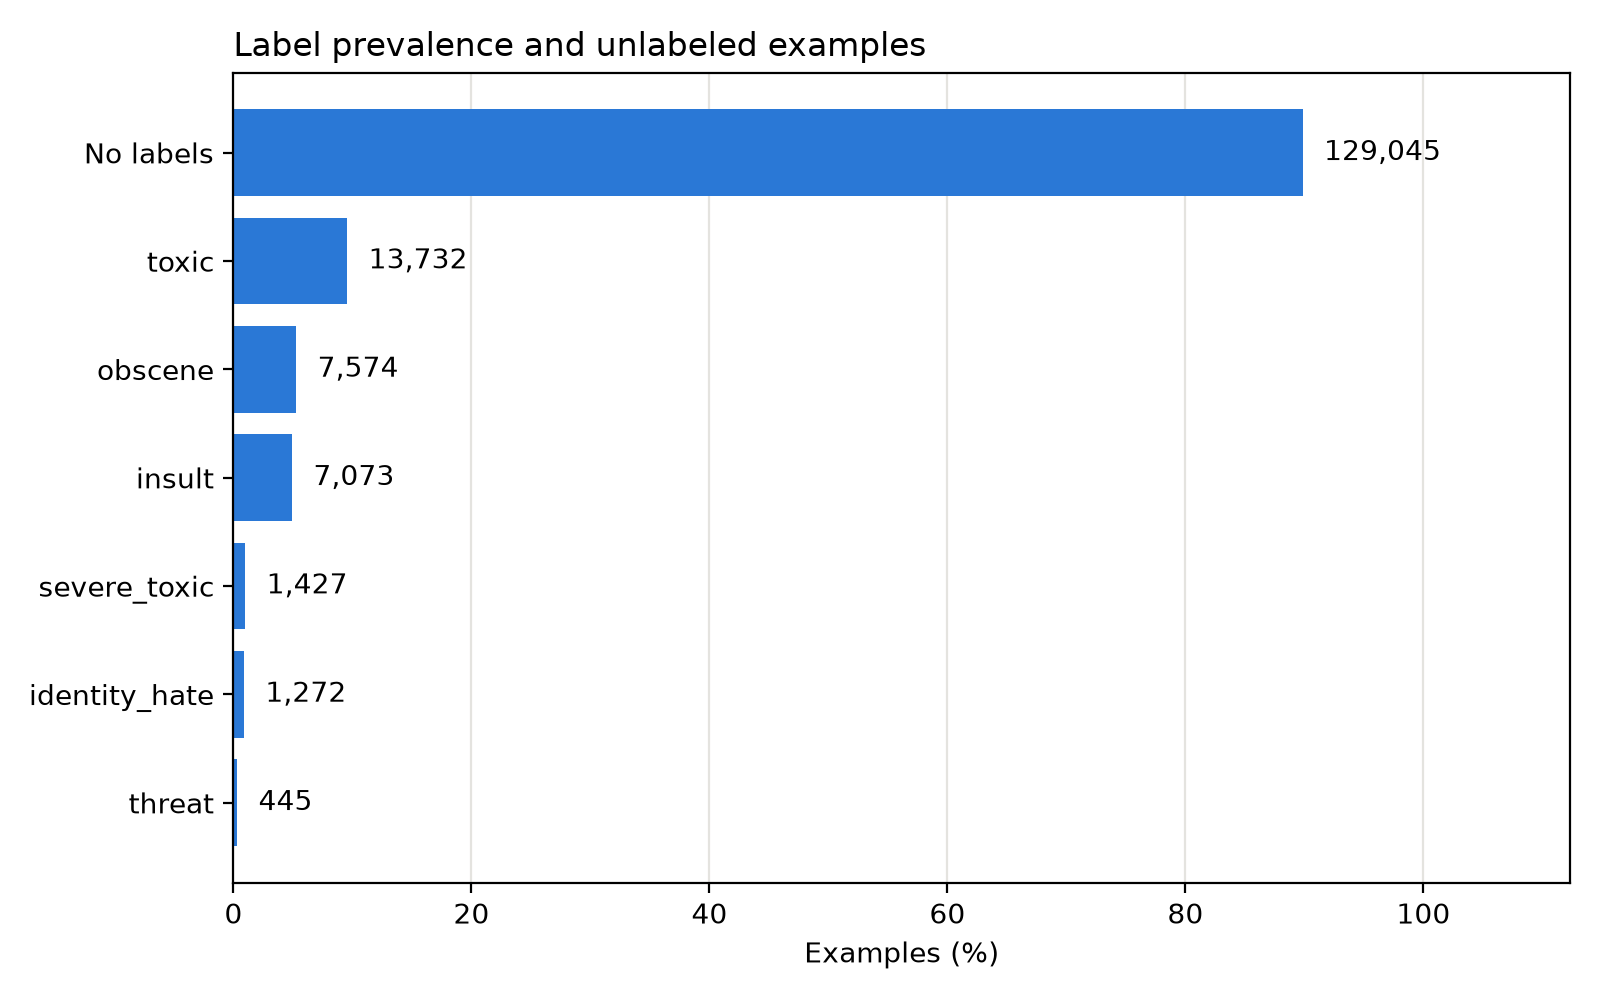
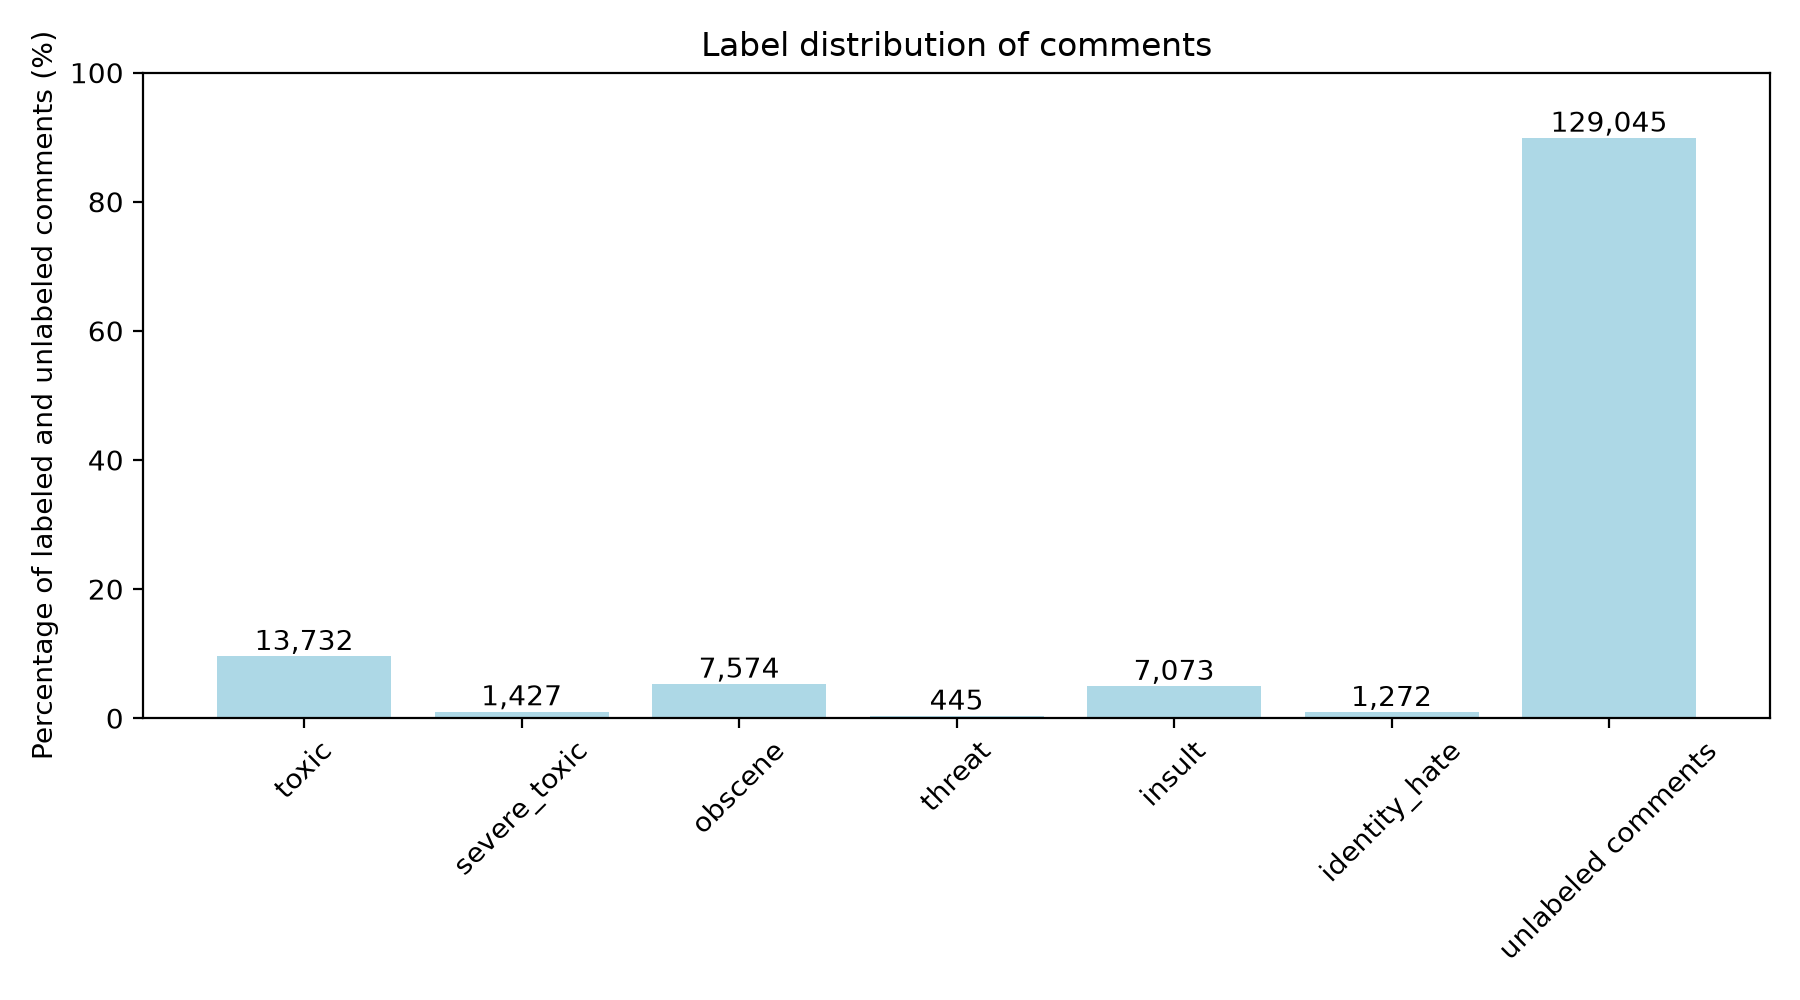
label distribution script

diff --git a/analyze_label_distribution.py b/analyze_label_distribution.py
@@ -21,18 +21,19 @@ LABELS = (
 
 
 def main():
+    # set arguments
     parser = argparse.ArgumentParser()
     parser.add_argument("--train", type=Path, required=True)
     parser.add_argument("--out", type=Path, default=Path("data_analysis"))
     parser.add_argument("--seed", type=int, default=42)
     args = parser.parse_args()
 
-    # take labels from training set
+    # open training dataset and take each label for each row and turn into integers
     with args.train.open(encoding="utf-8", newline="") as data_file:
-        examples = [
-            [int(row[label]) for label in LABELS]
-            for row in csv.DictReader(data_file)
-        ]
+        examples = []
+        for row in csv.DictReader(data_file):
+            label_values = [int(row[label]) for label in LABELS]
+            examples.append(label_values)
 
     # take 90% of dataset (the training part)
     train_indices, _ = data_splits.jigsaw_train_validation_indices(
@@ -41,39 +42,49 @@ def main():
 
     # compute label prevalence in the training subset
     train_size = len(train_indices)
-    counts = [
-        sum(examples[index][label_index] for index in train_indices)
-        for label_index in range(len(LABELS))
-    ]
-    prevalence = [count / train_size * 100 for count in counts]
+    counts = []
+    for label_index in range(len(LABELS)):
+        count = 0
+        for index in train_indices:
+            count += examples[index][label_index]
+        counts.append(count)
+
+    prevalence = []
+    for count in counts:
+        prevalence.append(count / train_size * 100)
 
     # compute prevalence of unlabeled examples in the training subset
-    unlabeled_count = sum(
-        not any(examples[index]) for index in train_indices
-    )
+    unlabeled_count = 0
+    for index in train_indices:
+        has_label = False
+        for label_value in examples[index]:
+            if label_value == 1:
+                has_label = True
+                break
+        if not has_label:
+            unlabeled_count += 1
+
     unlabeled_prevalence = unlabeled_count / train_size * 100
 
-    # make a table of label prevalence
-    rows = [
-        {
+    # make a list of comments with labels and their count and prevalence
+    rows = []
+    for index, label in enumerate(LABELS):
+        row = {
             "label": label,
             "example_count": counts[index],
-            "training_examples": train_size,
             "prevalence_percent": prevalence[index],
         }
-        for index, label in enumerate(LABELS)
-    ]
-    # add a row for unlabeled examples
-    rows.append(
-        {
-            "label": "no_label",
-            "example_count": unlabeled_count,
-            "training_examples": train_size,
-            "prevalence_percent": unlabeled_prevalence,
-        }
-    )
+        rows.append(row)
 
-    # save the table to CSV
+    # make a list of comments without labels and their count and prevalence
+    unlabeled_row = {
+        "label": "no_label",
+        "example_count": unlabeled_count,
+        "prevalence_percent": unlabeled_prevalence,
+    }
+    rows.append(unlabeled_row)
+
+    # write rows to csv file. Create new if it does not already exist
     args.out.mkdir(parents=True, exist_ok=True)
     csv_path = args.out / "label_distribution.csv"
     with csv_path.open("w", newline="", encoding="utf-8") as output_file:
@@ -82,49 +93,41 @@ def main():
         writer.writerows(rows)
 
     # plotting
-    figure, axis = plt.subplots(figsize=(8, 5))
-    axis.barv(
-        range(len(order)),
-        [rows[index]["prevalence_percent"] for index in order],
-        color="#2a78d6",
-    )
-    axis.set_yticks(
-        range(len(order)),
-        [
-            "No labels" if rows[index]["label"] == "no_label" else rows[index]["label"]
-            for index in order
-        ],
-    )
-    axis.invert_yaxis()
-    axis.set_xlabel("Examples (%)")
-    axis.set_title("Label distribution", loc="left")
-    axis.grid(axis="x", color="#e4e3df", linewidth=0.8)
-    axis.set_axisbelow(True)
+    prevalence_values = []
+    tick_labels = []
+    for index in range(len(rows)):
+        prevalence_values.append(rows[index]["prevalence_percent"])
+        if rows[index]["label"] == "no_label":
+            tick_labels.append("unlabeled comments")
+        else:
+            tick_labels.append(rows[index]["label"])
 
-    max_prevalence = max(row["prevalence_percent"] for row in rows)
-    axis.set_xlim(0, max_prevalence * 1.25)
-    for position, index in enumerate(order):
+    figure, axis = plt.subplots(figsize=(9, 5))
+    axis.bar(
+        range(len(rows)),
+        prevalence_values,
+        color="lightblue",
+    )
+    axis.set_xticks(range(len(rows)), tick_labels, rotation=45)
+    axis.set_ylabel("Percentage of labeled and unlabeled comments (%)")
+    axis.set_title("Label distribution of comments")
+
+    axis.set_ylim(0, 100) 
+    for position, index in enumerate(range(len(rows))):
         axis.text(
-            rows[index]["prevalence_percent"] + max_prevalence * 0.02,
             position,
+            rows[index]["prevalence_percent"] + 1,
             f"{rows[index]['example_count']:,}",
-            va="center",
+            ha="center",
         )
 
     figure.tight_layout()
+
+    # save plot in fodler
     chart_path = args.out / "label_distribution.png"
     figure.savefig(chart_path, dpi=200)
     plt.close(figure)
 
-    print(f"Training examples: {train_size:,}")
-    print(f"{'Label':<18} {'Examples':>10} {'Prevalence':>12}")
-    for row in rows:
-        print(
-            f"{'No labels' if row['label'] == 'no_label' else row['label']:<18} "
-            f"{row['example_count']:>10,} "
-            f"{row['prevalence_percent']:>11.2f}%"
-        )
-    print(f"\nSaved CSV: {csv_path}")
     print(f"Saved chart: {chart_path}")
 
 
